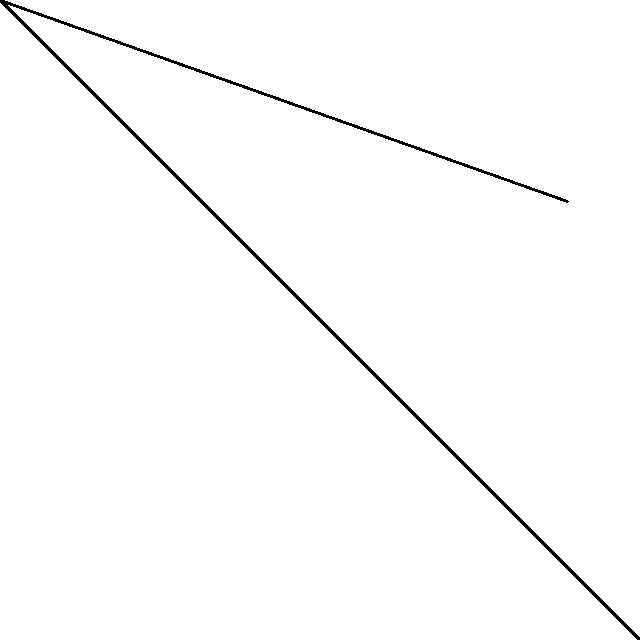
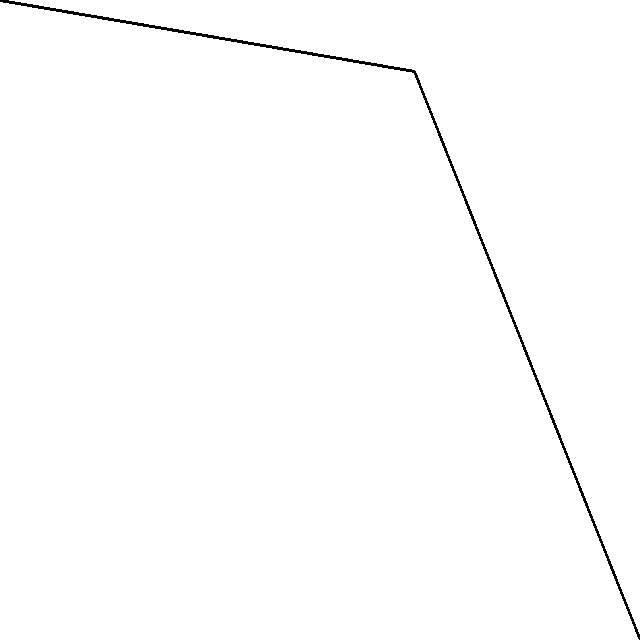
vector promedio de centroides, correccion de extraccion de la forma

diff --git a/character_meet.py b/character_meet.py
@@ -54,33 +54,38 @@ def get_img_shape_meet_prev_sort(list_centroides):
     
     # unir los puntos con una línea
     list_xz = []
+    """
     for i in list_centroides:
-        list_xz.append((i[2], i[0]))
-    
+        list_xz.append([(int(i[0][0])+320, int(i[0][2])), (int(i[1][0])+320, int(i[1][2]))])
+
+    # Dibujar líneas entre los puntos
+    for i in list_xz:
+        cv2.line(image_white, i[0], i[1], (0, 0, 0), 2)
+    """
+
+    ## todo lo que va a normalizarse
+    list_points = []
+    for i in list_centroides:
+        list_xz.append([(int(i[0][0]), int(i[0][2])), (int(i[1][0]), int(i[1][2]))])
+        list_points.append((int(i[0][0]), int(i[0][2])))
+        list_points.append((int(i[1][0]), int(i[1][2])))
+
     # Encontrar los mínimos y máximos de las coordenadas x y y
-    min_x = min(point[0] for point in list_xz)
-    max_x = max(point[0] for point in list_xz)
-    min_y = min(point[1] for point in list_xz)
-    max_y = max(point[1] for point in list_xz)
+    min_x = min(point[0] for point in list_points)
+    max_x = max(point[0] for point in list_points)
+    min_y = min(point[1] for point in list_points)
+    max_y = max(point[1] for point in list_points)
 
     # Asegurarse de que no se divida por cero si min_x == max_x o min_y == max_y
     range_x = max_x - min_x if max_x != min_x else 1
     range_y = max_y - min_y if max_y != min_y else 1
 
     # Convertir los puntos a coordenadas de imagen
-    scaled_points = [normalize_and_scale(point, min_x, range_x, min_y, range_y, 640, 640) for point in list_xz]
+    scaled_points = [(normalize_and_scale(points[0], min_x, range_x, min_y, range_y, 640, 640), normalize_and_scale(points[1], min_x, range_x, min_y, range_y, 640, 640)) for points in list_xz]
 
     # Dibujar líneas entre los puntos
-    for i in range(len(scaled_points) - 1):
-        cv2.line(image_white, scaled_points[i], scaled_points[i + 1], (0, 0, 0), 2)
-
-    # flip de abajo hacia arriba
-    # image_white = cv2.flip(image_white, 0)
-    # 180 anti-clockwise
-    # image_white = cv2.rotate(image_white, cv2.ROTATE_180)
-    # reflejo en el eje y
-    # image_white = cv2.flip(image_white, 1)
-
+    for i in scaled_points:
+        cv2.line(image_white, i[0], i[1], (0, 0, 0), 2)
     
     # Convertir la imagen a escala de grises
     gray_image = cv2.cvtColor(image_white, cv2.COLOR_BGR2GRAY)

diff --git a/space_3d.py b/space_3d.py
@@ -2,7 +2,7 @@ import numpy as np
 # from dijkstra import Graph
 import networkx as nx
 from  character_meet import get_img_shape_meet_prev_sort
-from consts import size_centroide
+from consts import size_centroide, size_vector
 
 def calcular_centroide(lista_de_listas):
     # Inicializa las sumas de las coordenadas x, y, z
@@ -104,31 +104,9 @@ def get_vector_normal_to_plane(person, centroide, ax, color):
     v2 = p3 - p1
     normal = np.cross(v1, v2)
 
-    # Definir un punto en la línea
-    point_on_line = centroide
-    # Definir el vector director de la línea (el vector normal al plano)
-    line_direction = normal
-
-    # Parámetros para la ecuación paramétrica de la línea
-    # Definir el rango para los valores de parámetro t
-    t_min = 5
-    t_max = 1
-    num_points = 100
-    t_values = np.linspace(t_min, t_max, num_points)
-
-    # Calcular el punto de intersección entre la línea y el plano
-    intersection_point = point_on_line + line_direction * t_values[:, np.newaxis]
-    intersection_point_on_plane = intersection_point[
-        np.abs(intersection_point - point_on_line).sum(axis=1).argmin()
-    ]
-
-    # Graficar la línea perpendicular al plano
-    ax.plot(
-        [point_on_line[0], intersection_point_on_plane[0]],
-        [point_on_line[1], intersection_point_on_plane[1]],
-        [point_on_line[2], intersection_point_on_plane[2]],
-        color=color
-    )
+    # Normalizar el vector normal
+    normal = normal / np.linalg.norm(normal)
+    ax.quiver(centroide[0], centroide[1], centroide[2], normal[0], normal[1], normal[2], length=size_vector, color=color, label='Normal Promedio')
 
     return normal
 
@@ -243,10 +221,7 @@ def show_connection_points(list_centroides, ax):
             ax.plot([list_centroides[i][0], list_centroides[j][0]],
                     [list_centroides[i][1], list_centroides[j][1]],
                     [list_centroides[i][2], list_centroides[j][2]], color='black')
-            # El segundo sera el primero del siguiente
-            list_centroides_sorted.append(list_centroides[i])
-        # el ultimo restante
-        list_centroides_sorted.append(list_centroides[j])
+            list_centroides_sorted.append([list_centroides[i], list_centroides[j]])
     else:
         list_centroides_sorted = list_centroides
     

diff --git a/main_video.py b/main_video.py
@@ -3,7 +3,7 @@ import os
 import numpy as np
 import matplotlib.pyplot as plt
 from space_3d import show_centroid_and_normal, calcular_centroide, show_each_point_of_person, show_connection_points
-from consts import configs, size_centroide_centroide
+from consts import configs, size_centroide_centroide, size_vector_centroide
 import dense.pc_generation as pcGen
 import joblib
 # from character_meet import get_img_shape_meet
@@ -41,9 +41,23 @@ def plot_3d(x, y, z, ax, color, s=20, marker="o", label=None):
 
 def clean_plot(ax):
     ax.cla()
-    ax.set_ylim(-100, 100)
-    ax.set_xlim(-500, 500)
+    ax.set_ylim(-5, 10)
+    ax.set_xlim(-50, 50)
     ax.set_zlim(0, 500)
+    # Establecer la vista frontal
+    ax.view_init(elev=0, azim=270) # Top view
+    # ax.view_init(elev=270, azim=270)  # Front view
+
+
+def average_normals(normals):
+    # Calcular el promedio de los vectores normales
+    if len(normals) > 0:
+        avg_normal = np.mean(normals, axis=0)
+        # Normalizar el vector promedio
+        avg_normal = avg_normal / np.linalg.norm(avg_normal)
+        return avg_normal
+    else:
+        return None
 
 def live_plot_3d(kpts):
     fig, ax = setup_plot()
@@ -63,19 +77,22 @@ def live_plot_3d(kpts):
     print("Show centroid and normal")
     show_centroid_and_normal(list_points_persons, list_color_to_paint, ax, list_centroides, list_tronco_normal, plot_3d)
 
-    ## Vector promedio
-
-
     if len(list_centroides) > 1:
         # Ilustrar el centroide de los centroides (centroide del grupo)
         centroide = calcular_centroide(list_centroides)
         plot_3d(centroide[0], centroide[1], centroide[2], ax, "black", s=size_centroide_centroide, marker='o', label="Cg")
 
+    ## Vector promedio
+    avg_normal = average_normals(list_tronco_normal)
+    print("Vector normal promedio")
+
+    # Graficar el vector normal promedio en el origen
+    if avg_normal is not None:
+        ax.quiver(centroide[0], centroide[1], centroide[2], avg_normal[0], avg_normal[1], avg_normal[2], length=size_vector_centroide, color='black', label='Normal Promedio')
+
     # Conectar cada uno de los ceintroides
     print("Show connection points")
     show_connection_points(list_centroides, ax)
-
-    # get_img_shape_meet(list_centroides)
     
     plt.show()
     return list_points_persons

diff --git a/consts.py b/consts.py
@@ -2,6 +2,8 @@ import cv2
 
 size_centroide = 50
 size_centroide_centroide = 100
+size_vector = 20.0
+size_vector_centroide = 40.0
 
 configs = {
     'matlab_1': {
